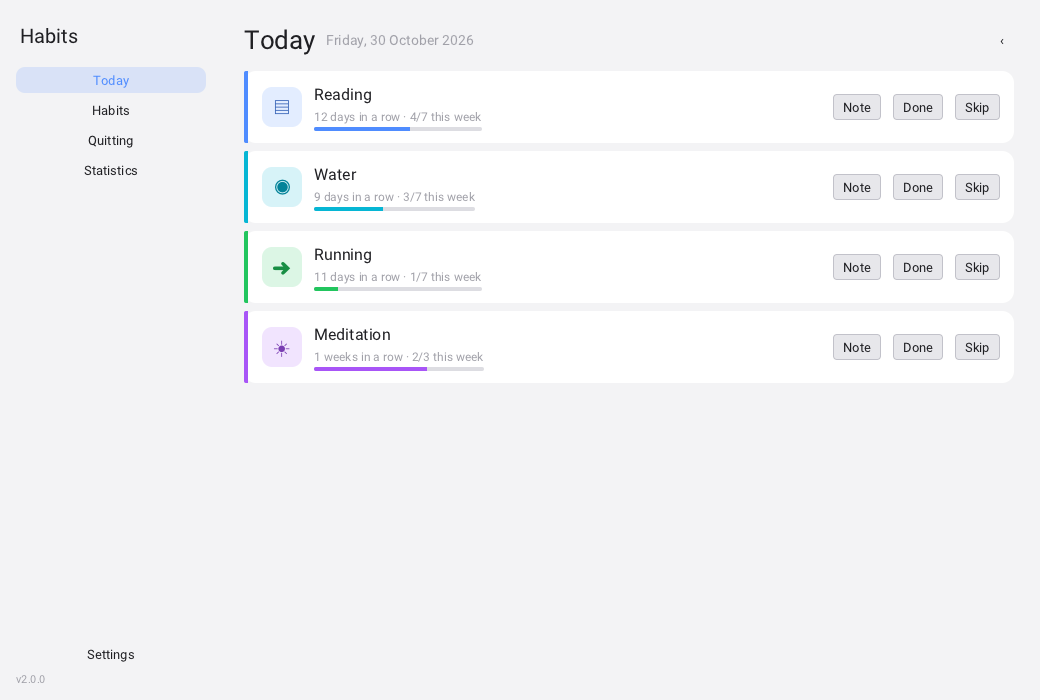
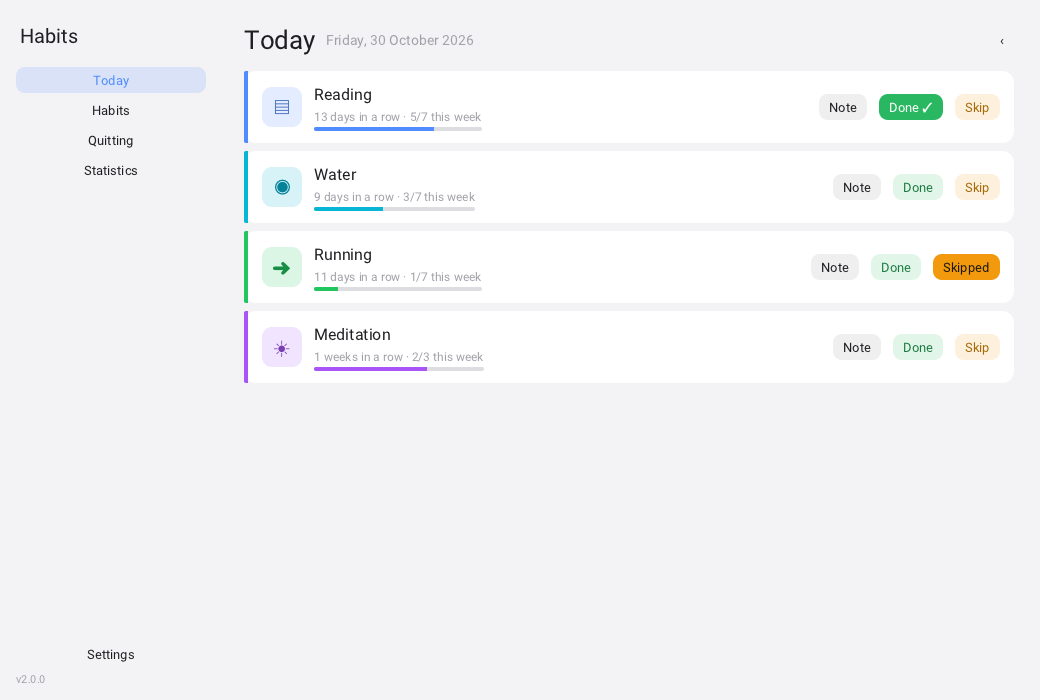
Restyle every button and let habits be reordered
- one soft rounded style for all standard buttons: neutral by default,
  accent for the main action, soft red for destructive ones
- the daily Note/Done/Skip buttons become soft pills; Done turns solid green
  when marked, Skipped solid amber
- core db_habit_move() moves a habit up or down by renumbering sort_order,
  covered by a test; the Habits screen gets ↑/↓ buttons

diff --git a/src/desktop/main.c b/src/desktop/main.c
@@ -69,6 +69,8 @@ static Rid ui_hbox(float spacing);
 static Rid ui_label(const char *text, float size, int bold);
 static Rid ui_muted(const char *text, float size);
 static Rid ui_button(const char *text, void (*cb)(Rid, void *), void *ud);
+static Rid ui_primary_button(const char *text, void (*cb)(Rid, void *), void *ud);
+static Rid ui_danger_button(const char *text, void (*cb)(Rid, void *), void *ud);
 static Rid ui_flat_button(const char *text, void (*cb)(Rid, void *), void *ud);
 static Rid ui_spacer(void);
 static void on_new_habit(Rid button, void *ud);
@@ -169,15 +171,91 @@ static Rid ui_muted(const char *text, float size) {
     return label;
 }
 
-static Rid ui_button(const char *text, void (*cb)(Rid, void *), void *ud) {
+static Rid base_button(const char *text, void (*cb)(Rid, void *), void *ud) {
     Rid button = Rbutton_create(text);
+    Rbutton_set_style(button, R_BUTTON_DEFAULT);
+    Rwidget_set_metric(button, R_METRIC_CORNER_RADIUS, 9.0f);
+    Rwidget_set_color(button, R_COLOR_CONTROL_BORDER, 0.0f, 0.0f, 0.0f, 0.0f);
     if (cb) Rbutton_set_clicked_callback(button, cb, ud);
+    return button;
+}
+
+/* Neutral soft button used everywhere by default. */
+static Rid ui_button(const char *text, void (*cb)(Rid, void *), void *ud) {
+    Rid button = base_button(text, cb, ud);
+    float r, g, b, a;
+    Rtheme_get_color(R_COLOR_TEXT, &r, &g, &b, &a);
+    Rwidget_set_color(button, R_COLOR_CONTROL, r, g, b, 0.07f);
+    Rwidget_set_color(button, R_COLOR_CONTROL_HOVERED, r, g, b, 0.13f);
+    Rwidget_set_color(button, R_COLOR_CONTROL_PRESSED, r, g, b, 0.20f);
+    return button;
+}
+
+/* Filled with the accent: the main action of a screen or a dialog. */
+static Rid ui_primary_button(const char *text, void (*cb)(Rid, void *), void *ud) {
+    Rid button = base_button(text, cb, ud);
+    float r, g, b, a;
+    Rtheme_get_color(R_COLOR_ACCENT, &r, &g, &b, &a);
+    Rwidget_set_color(button, R_COLOR_CONTROL, r, g, b, 1.0f);
+    Rwidget_set_color(button, R_COLOR_CONTROL_HOVERED, r * 0.90f, g * 0.90f, b * 0.90f, 1.0f);
+    Rwidget_set_color(button, R_COLOR_CONTROL_PRESSED, r * 0.80f, g * 0.80f, b * 0.80f, 1.0f);
+    Rtheme_get_color(R_COLOR_ACCENT_TEXT, &r, &g, &b, &a);
+    Rwidget_set_color(button, R_COLOR_TEXT, r, g, b, 1.0f);
+    return button;
+}
+
+/* Soft red: destructive actions (delete, clear). */
+static Rid ui_danger_button(const char *text, void (*cb)(Rid, void *), void *ud) {
+    Rid button = base_button(text, cb, ud);
+    const float r = 0.92f, g = 0.32f, b = 0.32f;
+    Rwidget_set_color(button, R_COLOR_CONTROL, r, g, b, 0.12f);
+    Rwidget_set_color(button, R_COLOR_CONTROL_HOVERED, r, g, b, 0.20f);
+    Rwidget_set_color(button, R_COLOR_CONTROL_PRESSED, r, g, b, 0.28f);
+    if (g_app.light)
+        Rwidget_set_color(button, R_COLOR_TEXT, 0.62f, 0.10f, 0.10f, 1.0f);
+    else
+        Rwidget_set_color(button, R_COLOR_TEXT, 1.0f, 0.58f, 0.58f, 1.0f);
     return button;
 }
 
 static Rid ui_flat_button(const char *text, void (*cb)(Rid, void *), void *ud) {
     Rid button = Rbutton_create(text);
     Rbutton_set_style(button, R_BUTTON_FLAT);
+    if (cb) Rbutton_set_clicked_callback(button, cb, ud);
+    return button;
+}
+
+static float clamp01(float v) {
+    return v < 0.0f ? 0.0f : (v > 1.0f ? 1.0f : v);
+}
+
+/* A rounded button tinted with a semantic colour: soft by default, solid when
+   it is the active state (done / skipped). */
+static Rid pill_button(const char *text, float r, float g, float b, int solid,
+                       void (*cb)(Rid, void *), void *ud) {
+    Rid button = Rbutton_create(text);
+    Rbutton_set_style(button, R_BUTTON_DEFAULT);
+    Rwidget_set_metric(button, R_METRIC_CORNER_RADIUS, 9.0f);
+    if (solid) {
+        Rwidget_set_color(button, R_COLOR_CONTROL, r, g, b, 1.0f);
+        Rwidget_set_color(button, R_COLOR_CONTROL_HOVERED, r * 0.92f, g * 0.92f, b * 0.92f, 1.0f);
+        Rwidget_set_color(button, R_COLOR_CONTROL_PRESSED, r * 0.84f, g * 0.84f, b * 0.84f, 1.0f);
+        float luma = 0.299f * r + 0.587f * g + 0.114f * b;
+        if (luma > 0.62f)
+            Rwidget_set_color(button, R_COLOR_TEXT, 0.10f, 0.09f, 0.06f, 1.0f);
+        else
+            Rwidget_set_color(button, R_COLOR_TEXT, 1.0f, 1.0f, 1.0f, 1.0f);
+    } else {
+        Rwidget_set_color(button, R_COLOR_CONTROL, r, g, b, 0.14f);
+        Rwidget_set_color(button, R_COLOR_CONTROL_HOVERED, r, g, b, 0.24f);
+        Rwidget_set_color(button, R_COLOR_CONTROL_PRESSED, r, g, b, 0.34f);
+        if (g_app.light)
+            Rwidget_set_color(button, R_COLOR_TEXT, r * 0.68f, g * 0.68f, b * 0.68f, 1.0f);
+        else
+            Rwidget_set_color(button, R_COLOR_TEXT, clamp01(r * 1.15f + 0.20f),
+                              clamp01(g * 1.15f + 0.20f), clamp01(b * 1.15f + 0.20f), 1.0f);
+    }
+    Rwidget_set_color(button, R_COLOR_CONTROL_BORDER, 0.0f, 0.0f, 0.0f, 0.0f);
     if (cb) Rbutton_set_clicked_callback(button, cb, ud);
     return button;
 }
@@ -395,14 +473,11 @@ static Rid habit_row(const Habit *h) {
 
     add_center(col, ui_button("Note", on_note, (void *)(intptr_t)h->id));
 
-    Rid done_btn = ui_button(is_done ? "Done ✓" : "Done", on_toggle_done, (void *)(intptr_t)h->id);
-    if (is_done) Rbutton_set_style(done_btn, R_BUTTON_PRIMARY);
-    add_center(col, done_btn);
+    add_center(col, pill_button(is_done ? "Done ✓" : "Done", 0.16f, 0.72f, 0.38f, is_done,
+                                on_toggle_done, (void *)(intptr_t)h->id));
 
-    Rid skip_btn = ui_button(is_skipped ? "Skipped" : "Skip", on_toggle_skip,
-                             (void *)(intptr_t)h->id);
-    if (is_skipped) Rwidget_set_color(skip_btn, R_COLOR_ACCENT, 0.96f, 0.62f, 0.04f, 1.0f);
-    add_center(col, skip_btn);
+    add_center(col, pill_button(is_skipped ? "Skipped" : "Skip", 0.95f, 0.60f, 0.05f, is_skipped,
+                                on_toggle_skip, (void *)(intptr_t)h->id));
     return card;
 }
 
@@ -472,7 +547,7 @@ static void build_today(Rid root) {
     if (n == 0) {
         Rid empty = ui_vbox(8.0f);
         Rwidget_add_child(empty, ui_muted("Nothing planned for this day.", 14.0f));
-        Rwidget_add_child(empty, ui_button("New habit", on_new_habit, NULL));
+        Rwidget_add_child(empty, ui_primary_button("New habit", on_new_habit, NULL));
         Rwidget_add_child(list, empty);
     }
     for (size_t i = 0; i < n; i++) Rwidget_add_child(list, habit_row(items[i]));
@@ -511,7 +586,7 @@ static void build_quitting(Rid root) {
     Rid head = ui_hbox(10.0f);
     Rwidget_add_child(head, ui_label("Quitting", 26.0f, 1));
     Rwidget_add_child(head, ui_spacer());
-    Rwidget_add_child(head, ui_button("New bad habit", on_new_quit, NULL));
+    Rwidget_add_child(head, ui_primary_button("New bad habit", on_new_quit, NULL));
     Rwidget_add_child(root, head);
 
     g_app.quit_count = 0;
@@ -547,7 +622,7 @@ static void build_quitting(Rid root) {
         Rwidget_add_child(content, ui_spacer());
         add_center(content, ui_button("Relapsed", on_quit_reset, (void *)(intptr_t)q->id));
         add_center(content, ui_button("Edit", on_edit_quit, (void *)(intptr_t)q->id));
-        add_center(content, ui_button("Delete", on_delete_quit, (void *)(intptr_t)q->id));
+        add_center(content, ui_danger_button("Delete", on_delete_quit, (void *)(intptr_t)q->id));
 
         if (g_app.quit_count < 64) {
             g_app.quit_labels[g_app.quit_count] = timer;
@@ -629,8 +704,7 @@ static void open_note_form(int64_t habit_id) {
     Rid buttons = ui_hbox(8.0f);
     Rwidget_add_child(buttons, ui_spacer());
     Rwidget_add_child(buttons, ui_button("Cancel", on_dialog_cancel, NULL));
-    Rid save = ui_button("Save", note_save, f);
-    Rbutton_set_style(save, R_BUTTON_PRIMARY);
+    Rid save = ui_primary_button("Save", note_save, f);
     Rwidget_add_child(buttons, save);
     Rwidget_add_child(form, buttons);
 
@@ -823,8 +897,7 @@ static void open_habit_form(const Habit *edit) {
     Rid buttons = ui_hbox(8.0f);
     Rwidget_add_child(buttons, ui_spacer());
     Rwidget_add_child(buttons, ui_button("Cancel", on_dialog_cancel, NULL));
-    Rid save = ui_button("Save", habit_save, f);
-    Rbutton_set_style(save, R_BUTTON_PRIMARY);
+    Rid save = ui_primary_button("Save", habit_save, f);
     Rwidget_add_child(buttons, save);
     Rwidget_add_child(form, buttons);
 
@@ -867,6 +940,22 @@ static void on_restore_habit(Rid button, void *ud) {
     h->archived_date[0] = '\0';
     save_db();
     rebuild();
+}
+
+static void on_move_up(Rid button, void *ud) {
+    (void)button;
+    if (db_habit_move(&g_app.db, (int64_t)(intptr_t)ud, -1)) {
+        save_db();
+        rebuild();
+    }
+}
+
+static void on_move_down(Rid button, void *ud) {
+    (void)button;
+    if (db_habit_move(&g_app.db, (int64_t)(intptr_t)ud, 1)) {
+        save_db();
+        rebuild();
+    }
 }
 
 static void on_clear_stats(Rid button, void *ud) {
@@ -953,8 +1042,7 @@ static void open_quit_form(const Quit *edit) {
     Rid buttons = ui_hbox(8.0f);
     Rwidget_add_child(buttons, ui_spacer());
     Rwidget_add_child(buttons, ui_button("Cancel", on_dialog_cancel, NULL));
-    Rid save = ui_button("Save", quit_save, f);
-    Rbutton_set_style(save, R_BUTTON_PRIMARY);
+    Rid save = ui_primary_button("Save", quit_save, f);
     Rwidget_add_child(buttons, save);
     Rwidget_add_child(form, buttons);
 
@@ -994,7 +1082,7 @@ static void build_habits(Rid root) {
     Rid head = ui_hbox(10.0f);
     Rwidget_add_child(head, ui_label("Habits", 26.0f, 1));
     Rwidget_add_child(head, ui_spacer());
-    Rwidget_add_child(head, ui_button("New habit", on_new_habit, NULL));
+    Rwidget_add_child(head, ui_primary_button("New habit", on_new_habit, NULL));
     Rwidget_add_child(root, head);
 
     Rid scroll = Rwidget_create(R_WIDGET_SCROLL_BOX);
@@ -1017,9 +1105,17 @@ static void build_habits(Rid root) {
         Rwidget_add_child(col, ui_muted(sched, 12.0f));
         add_center(content, col);
         Rwidget_add_child(content, ui_spacer());
+        Rid up = ui_button("↑", on_move_up, (void *)(intptr_t)h->id);
+        Rid down = ui_button("↓", on_move_down, (void *)(intptr_t)h->id);
+        Rwidget_set_size(up, 26.0f, 26.0f);
+        Rwidget_set_size(down, 26.0f, 26.0f);
+        Rwidget_set_tooltip(up, "Move up");
+        Rwidget_set_tooltip(down, "Move down");
+        add_center(content, up);
+        add_center(content, down);
         Rid edit = ui_button("Edit", on_edit_habit, (void *)(intptr_t)h->id);
         Rid arch = ui_button("Archive", on_archive_habit, (void *)(intptr_t)h->id);
-        Rid del = ui_button("Delete", on_delete_habit, (void *)(intptr_t)h->id);
+        Rid del = ui_danger_button("Delete", on_delete_habit, (void *)(intptr_t)h->id);
         Rwidget_set_color(del, R_COLOR_TEXT, 0.94f, 0.38f, 0.38f, 1.0f);
         add_center(content, edit);
         add_center(content, arch);
@@ -1047,7 +1143,7 @@ static void build_habits(Rid root) {
             add_center(content, col);
             Rwidget_add_child(content, ui_spacer());
             add_center(content, ui_button("Restore", on_restore_habit, (void *)(intptr_t)h->id));
-            add_center(content, ui_button("Delete", on_delete_habit, (void *)(intptr_t)h->id));
+            add_center(content, ui_danger_button("Delete", on_delete_habit, (void *)(intptr_t)h->id));
             Rwidget_add_child(list, card);
         }
     }
@@ -1152,10 +1248,10 @@ static void build_stats(Rid root) {
 
     Rid actions = ui_hbox(8.0f);
     const Habit *selected = db_habit_by_id_c(&g_app.db, g_app.stats_habit);
-    Rwidget_add_child(actions, ui_button("Clear statistics", on_clear_stats,
+    Rwidget_add_child(actions, ui_danger_button("Clear statistics", on_clear_stats,
                                          (void *)(intptr_t)g_app.stats_habit));
     if (selected && selected->archived)
-        Rwidget_add_child(actions, ui_button("Delete habit", on_delete_habit,
+        Rwidget_add_child(actions, ui_danger_button("Delete habit", on_delete_habit,
                                              (void *)(intptr_t)g_app.stats_habit));
     Rwidget_add_child(root, actions);
 

diff --git a/src/core/model.c b/src/core/model.c
@@ -189,6 +189,45 @@ Habit *db_habit_add(DB *db) {
     return h;
 }
 
+static int active_habit_cmp(const void *a, const void *b) {
+    const Habit *ha = *(const Habit *const *)a;
+    const Habit *hb = *(const Habit *const *)b;
+    if (ha->sort_order != hb->sort_order) return ha->sort_order < hb->sort_order ? -1 : 1;
+    return ha->id < hb->id ? -1 : (ha->id > hb->id ? 1 : 0);
+}
+
+bool db_habit_move(DB *db, int64_t id, int delta) {
+    if (delta != -1 && delta != 1) return false;
+    Habit **order = xmalloc((db->nhabits + 1) * sizeof *order);
+    size_t n = 0;
+    for (size_t i = 0; i < db->nhabits; i++)
+        if (!db->habits[i].archived) order[n++] = &db->habits[i];
+    qsort(order, n, sizeof *order, active_habit_cmp);
+
+    size_t pos = n;
+    for (size_t i = 0; i < n; i++)
+        if (order[i]->id == id) {
+            pos = i;
+            break;
+        }
+    if (pos == n) {
+        free(order);
+        return false;
+    }
+    long target = (long)pos + delta;
+    if (target < 0 || target >= (long)n) {
+        free(order);
+        return false;
+    }
+    /* renumber first so equal sort_order values cannot keep the items stuck */
+    for (size_t i = 0; i < n; i++) order[i]->sort_order = (int)(i + 1) * 10;
+    int tmp = order[pos]->sort_order;
+    order[pos]->sort_order = order[target]->sort_order;
+    order[target]->sort_order = tmp;
+    free(order);
+    return true;
+}
+
 size_t db_entries_remove_habit(DB *db, int64_t habit_id) {
     size_t removed = 0;
     size_t w = 0;

diff --git a/tests/test_store.c b/tests/test_store.c
@@ -186,10 +186,36 @@ static void test_clear_entries(void) {
     db_free(&db);
 }
 
+static void test_habit_move(void) {
+    DB db;
+    db_init(&db);
+    Habit *a = test_add_habit(&db, "a", SCHED_DAILY, 0, 0, "2026-10-01");
+    Habit *b = test_add_habit(&db, "b", SCHED_DAILY, 0, 0, "2026-10-01");
+    Habit *c = test_add_habit(&db, "c", SCHED_DAILY, 0, 0, "2026-10-01");
+    CHECK(a->sort_order < b->sort_order && b->sort_order < c->sort_order);
+
+    CHECK(db_habit_move(&db, b->id, -1));
+    CHECK(b->sort_order < a->sort_order);
+    CHECK(!db_habit_move(&db, b->id, -1));
+
+    CHECK(db_habit_move(&db, b->id, 1));
+    CHECK(a->sort_order < b->sort_order);
+
+    CHECK(db_habit_move(&db, c->id, -1));
+    CHECK(c->sort_order < b->sort_order);
+    CHECK(db_habit_move(&db, c->id, 1));
+    CHECK(c->sort_order > b->sort_order);
+    CHECK(!db_habit_move(&db, c->id, 1));
+
+    CHECK(!db_habit_move(&db, 999, 1));
+    db_free(&db);
+}
+
 void test_store(void) {
     test_roundtrip();
     test_tolerates_corruption();
     test_drops_orphan_entries();
     test_refuses_newer_schema();
     test_clear_entries();
+    test_habit_move();
 }

diff --git a/src/core/model.h b/src/core/model.h
@@ -100,6 +100,9 @@ Habit *db_habit_add(DB *db);
 void db_habit_remove(DB *db, int64_t id);
 /* Delete every entry of a habit, keeping the habit itself. Returns the count. */
 size_t db_entries_remove_habit(DB *db, int64_t habit_id);
+/* Move an active habit one place up (delta -1) or down (+1) by renumbering
+   sort_order. Returns false when it is already at the end. */
+bool db_habit_move(DB *db, int64_t id, int delta);
 
 /* Field validation; returns false and sets *code / *message. */
 bool habit_validate(Habit *h, const char **code, const char **message);

diff --git a/SPEC.md b/SPEC.md
@@ -64,7 +64,7 @@ Raven не вендорится: `tools/get_raven.sh` клонирует и со
 | Экран | Содержимое |
 |---|---|
 | Сегодня | заголовок с датой и стрелками, карточки привычек: иконка, название, серия, прогресс недели; кнопки Note, Done, Skip |
-| Привычки | список с расписанием; создание и правка в диалоге (название, описание, цвет, иконка, расписание, дни недели, число раз); архив, секция «Archived» с восстановлением и удалением |
+| Привычки | список с расписанием; создание и правка в диалоге (название, описание, цвет, иконка, расписание, дни недели, число раз); архив, секция «Archived» с восстановлением и удалением; перемещение ↑/↓ с сохранением `sort_order` |
 | Бросаю | карточки с живым таймером (`дни ЧЧ:ММ:СС`), лучший результат и число попыток; Relapsed с подтверждением, правка, удаление |
 | Статистика | выбор привычки (архивные помечены), периода, карточки «текущая серия / лучшая / процент», heatmap 12 недель; «Clear statistics» (удалить отметки, оставив привычку) и «Delete habit» для архивной |
 | Настройки | путь к данным, версия, переключатели темы и анимаций (сохраняются в `data/ui.conf`), экспорт JSONL в домашний каталог |

diff --git a/README.md b/README.md
@@ -18,6 +18,7 @@ plain JSONL file next to it — no browser, no web server, no database.
   best attempt, the number of attempts, and a "relapsed" reset that keeps the
   record.
 - **History**: browse past days with the arrows and mark them there.
+- **Reorder habits** with the ↑ and ↓ buttons on the Habits screen; the order is kept in the file.
 - **Archive** instead of deleting. Archived habits are listed on the Habits screen, where they can be restored or deleted for good.
 - **Clear statistics** of any habit from the Statistics screen (the marks go, the habit stays); an archived habit can be deleted right there too.
 - **Export** the whole database as JSONL from Settings.
